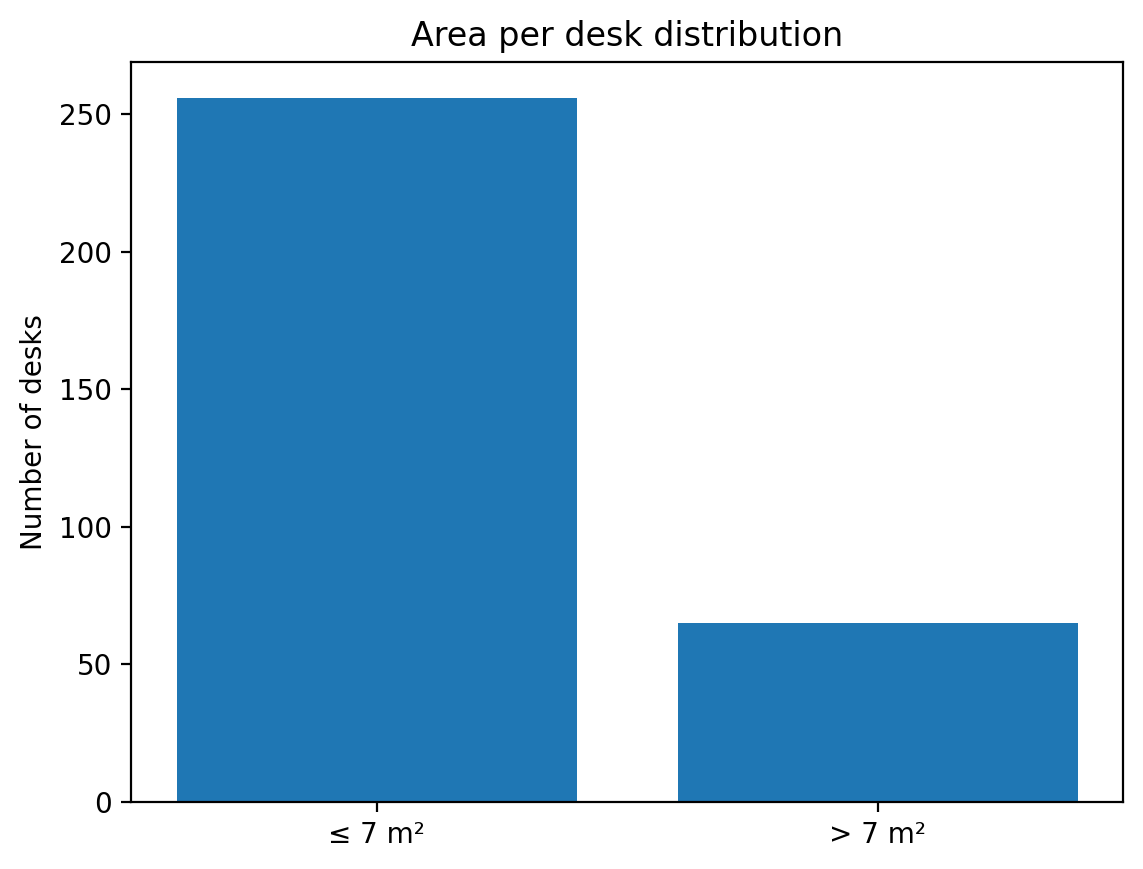
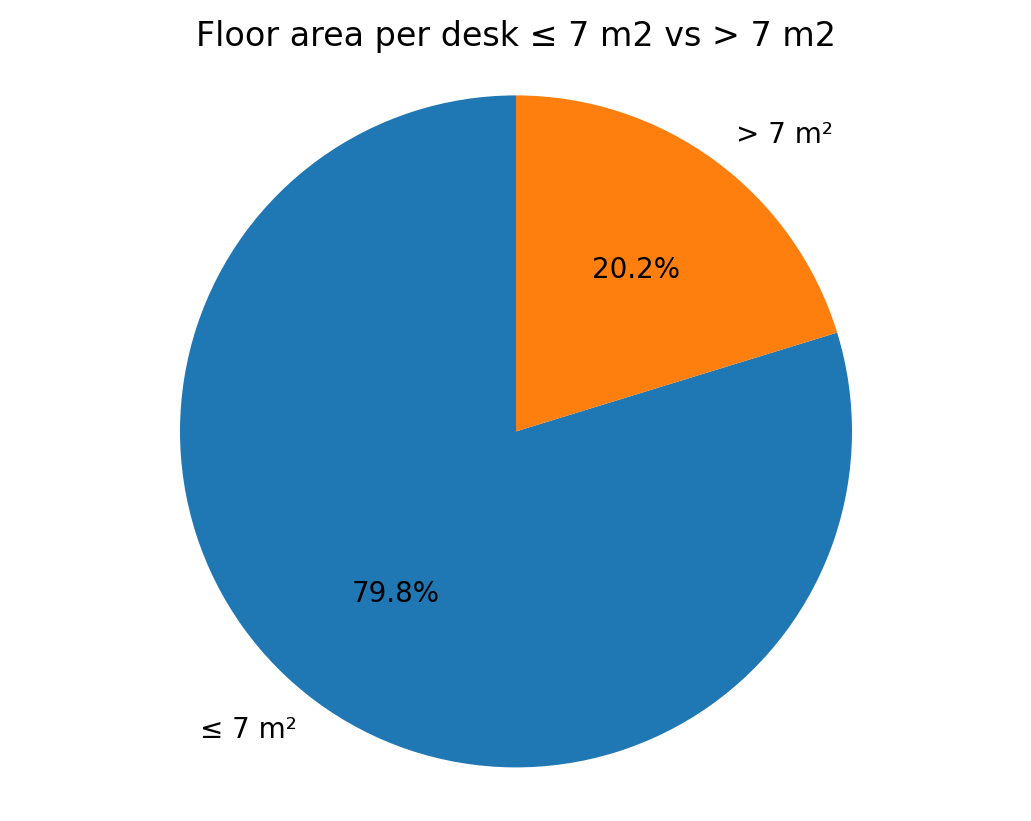
Changed a bar chart to a pie chart

diff --git a/A3/rules/A3_check_IfcSpace.py b/A3/rules/A3_check_IfcSpace.py
@@ -286,12 +286,7 @@ with open("A3/A3_analyst_checks_GRP2.txt", "w") as f:
     desks_outside_spaces_count = no_of_desks_in_space(storey, False)
     pset_for_desk_spaces()
 
-
-
-
-
-
-
+##################### MAKE PLOTS ###########################
 
 def make_plots():
     # use the global stats already computed
@@ -313,7 +308,7 @@ def make_plots():
     plt.axis("equal")
     plt.savefig("A3/plot_desks_in_vs_out.png", dpi=200, bbox_inches="tight")
 
-    # 2) Bar chart: desks in spaces per level
+    # 2) Bar chart: desks in spaces per level/storey
     levels = list(desks_per_level.keys())
     counts = [desks_per_level[lvl] for lvl in levels]
 
@@ -324,11 +319,16 @@ def make_plots():
     plt.title("Desks in spaces per level")
     plt.savefig("A3/plot_desks_per_level.png", dpi=200, bbox_inches="tight")
 
-    # 3) Area per desk distribution (≤ 7 m² vs > 7 m²)
+    # 3) Floor area per desk distribution (≤ 7 m2 vs > 7 ,2)
     plt.figure()
-    plt.bar(["≤ 7 m²", "> 7 m²"], [desks_area_7_or_below, desks_area_above_7])
-    plt.ylabel("Number of desks")
-    plt.title("Area per desk distribution")
+    plt.title("Floor area per desk ≤ 7 m2 vs > 7 m2")
+    plt.pie(
+        [desks_area_7_or_below, desks_area_above_7], 
+        labels = ["≤ 7 m²", "> 7 m²"],
+        autopct="%1.1f%%",
+        startangle=90,
+    )
+    plt.axis("equal")
     plt.savefig("A3/plot_area_per_desk.png", dpi=200, bbox_inches="tight")
 
     print("Plots saved to:")
@@ -336,11 +336,9 @@ def make_plots():
     print("  A3/plot_desks_per_level.png")
     print("  A3/plot_area_per_desk.png")
 
-
-
 make_plots()
     
 
-
+#################### END OF SCRIPT ###########################
 
 
